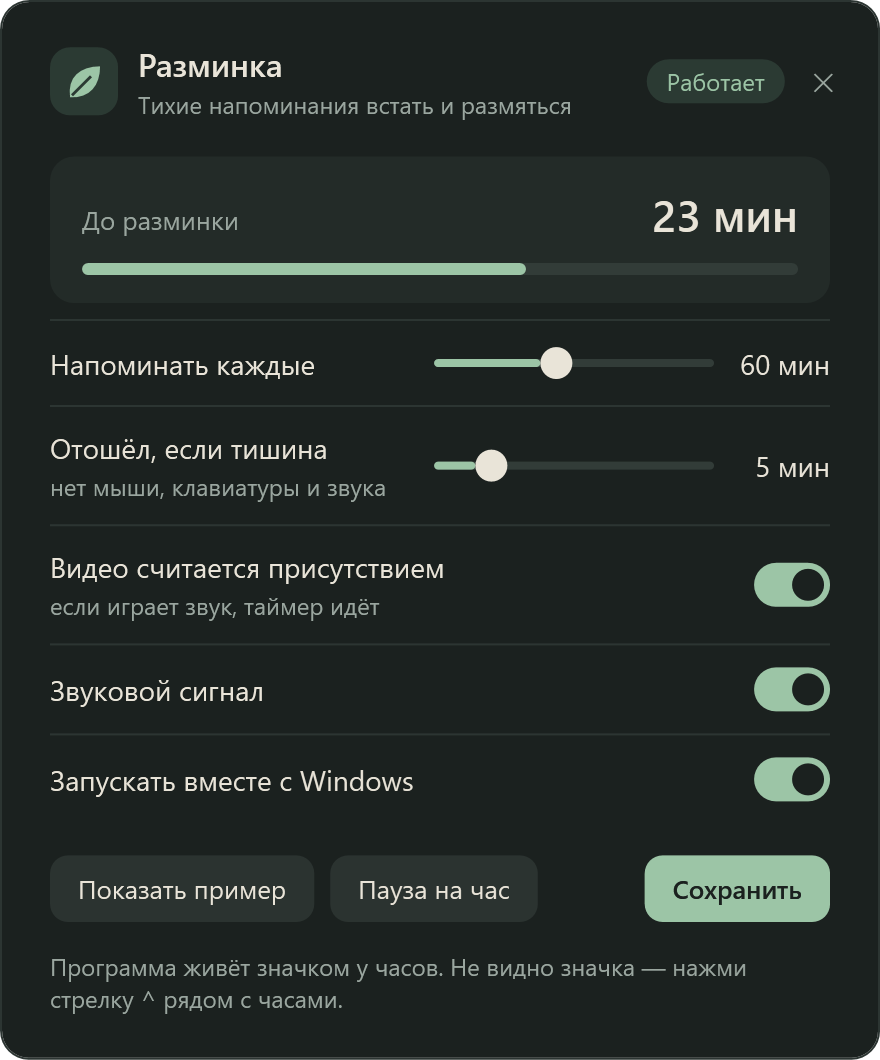
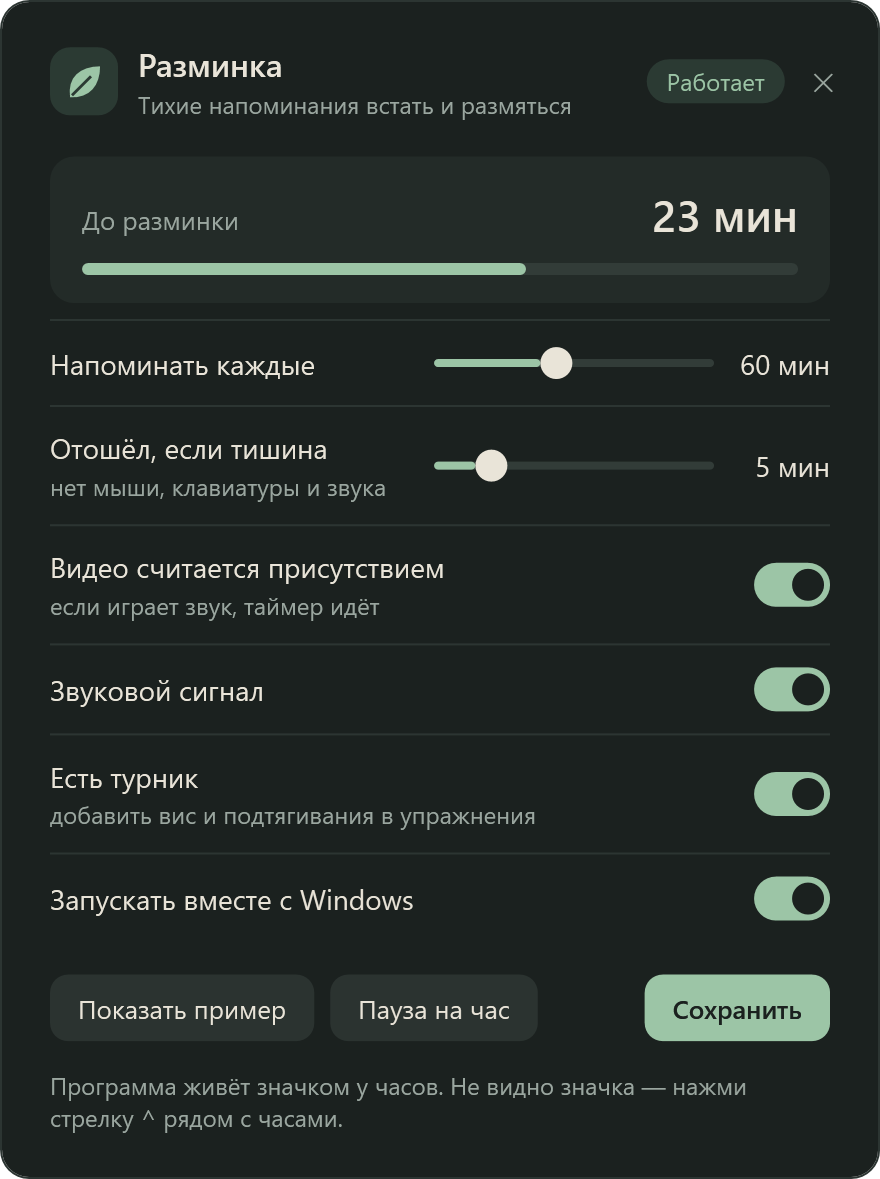
23 evidence-based exercises with a reason line, pull-up bar option, no repeats per round

diff --git a/README.md b/README.md
@@ -11,10 +11,27 @@
 - Живёт значком с листиком у часов. Наведи мышь — увидишь, сколько осталось до разминки. Клик — окно настроек. Правый клик — меню: «Напомнить сейчас», «Пауза на час» (рейтинговая катка, созвон), «Настройки», «Выход».
 - В окне настроек: интервал напоминаний, через сколько минут тишины считать, что ты отошёл, учитывать ли звук от видео, звуковой сигнал и запуск вместе с Windows.
 - Считает только время, когда ты за компьютером. Если на компьютере играет звук (смотришь видео или стрим), это тоже считается: таймер не сбрасывается, даже если мышь лежит без дела. Отсчёт начинается заново, только если несколько минут (по умолчанию 5) нет ни мыши с клавиатурой, ни звука — значит, отошёл.
-- Уведомление само пропадает примерно через 25 секунд. В тексте каждый раз новый совет: присесть, размять шею, посмотреть вдаль и т.п.
+- Уведомление само пропадает примерно через 25 секунд. В нём одно конкретное упражнение и одной строкой — зачем оно. Упражнения идут по кругу в случайном порядке и не повторяются, пока не пройдёшь все.
 - Звук играет отдельно от уведомления, поэтому его слышно, даже когда Windows прячет уведомления во время полноэкранной игры.
 - Работает в фоне без окна консоли. Чистый PowerShell и встроенный в Windows WPF, ничего ставить не нужно.
 - Ведёт лог `razminka.log` рядом со скриптом: когда сбрасывался таймер и когда показывалось напоминание.
+
+## Упражнения и откуда они
+
+23 коротких упражнения на 1–5 минут, без инвентаря: прогулка, приседания, отжимания от стола, подъёмы на носки, ягодичный мостик, растяжка бедра, планка, упражнения для шеи и лопаток, разминка запястий, отдых для глаз. Есть и такое, что можно сделать не вставая, например посреди катки.
+
+Если включить в настройках **«Есть турник»**, добавятся вис, подтягивания, подъём коленей в висе, «активный вис» с лопатками и негативные подтягивания для тех, кто пока не подтягивается. Они попадаются примерно в каждом третьем напоминании.
+
+На чём основан список:
+
+- **Частые короткие перерывы с ходьбой.** В опыте Колумбийского университета (Diaz и др., 2023) 5 минут ходьбы каждые 30 минут сидения снижали скачки сахара после еды на 58% и давление на 4–5 мм рт. ст. Ходьба раз в 60 минут в этом опыте сахар не снижала, так что если есть возможность — ставь интервал 30–45 минут. Опыт маленький (11 человек), выводы предварительные. [Columbia](https://www.cuimc.columbia.edu/node/25711)
+- **«Перекусы» нагрузкой.** Три коротких подъёма по лестнице в день, 3 раза в неделю, за 6 недель улучшили выносливость у малоподвижных людей (Jenkins и др., 2019). [PubMed](https://pubmed.ncbi.nlm.nih.gov/30649897/)
+- **Силовые для шеи и плеч.** В рандомизированных исследованиях с офисными работниками (Andersen и др.) силовые упражнения для шеи и плеч уменьшали боль в шее, а всего 2 минуты в день с резинкой — частоту головных болей. [PubMed](https://pubmed.ncbi.nlm.nih.gov/18461010/), [DOAJ](https://doaj.org/article/970327ba8c484449b144b0fecbb6e0ec)
+- **Силовые хотя бы 2 дня в неделю.** ВОЗ (2020) советует взрослым силовые на все крупные группы мышц минимум 2 дня в неделю и меньше сидеть. [Рекомендации ВОЗ](https://pmc.ncbi.nlm.nih.gov/articles/PMC7719906/)
+- **Подъёмы пяток сидя.** Работа камбаловидной мышцы сидя улучшала обмен сахара (Hamilton и др., 2022). В исследовании технику ставили по датчикам, так что дома эффект может быть меньше. [PMC](https://pmc.ncbi.nlm.nih.gov/articles/PMC9404652)
+- **Отжимания и хват.** У мужчин, которые могли отжаться больше 40 раз, за 10 лет было намного меньше болезней сердца (Yang и др., 2019); слабый хват связан с более ранней смертностью. Это наблюдения, а не доказательство причины. [Harvard](https://hsph.harvard.edu/news/push-up-capacity-cardiovascular-disease-events-men)
+
+Это не медицинская программа. Если что-то болит или есть травмы — посоветуйся с врачом. Текст упражнений лежит в начале [`razminka.ps1`](razminka.ps1) в списке `$exercises`, его легко поменять под себя.
 
 ## Нагрузка и приватность
 
@@ -86,7 +103,7 @@ The interface and notifications are in Russian.
 - Lives as a leaf icon next to the clock. Hover to see how long until the next break. Click to open settings. Right-click for a menu: remind now, pause for an hour (ranked match, a call), settings, exit.
 - Settings: reminder interval, how many quiet minutes mean you walked away, whether video sound counts as presence, the reminder sound, and starting with Windows.
 - Only time you actually spend at the computer counts. Sound playing on the PC (watching a video or a stream) counts as being there too, so the timer keeps going even when the mouse sits still. The timer resets only after a few minutes (5 by default) with neither input nor sound — you walked away.
-- The notification disappears on its own after about 25 seconds and shows a random stretching tip (edit `$tips` in `razminka.ps1` to change them).
+- The notification disappears on its own after about 25 seconds. It suggests one specific exercise with a one-line reason why. 23 short exercises (walking, squats, push-ups, calf raises, glute bridge, hip-flexor stretch, plank, neck and shoulder-blade work, wrists, eye rest) rotate in random order without repeats. Turn on "Есть турник" (pull-up bar) in settings to add dead hangs, pull-ups, hanging knee raises, scapular hangs and negatives. The list is `$exercises` in `razminka.ps1`; the research behind it is listed in the Russian section above (Diaz 2023, Jenkins 2019, Andersen et al., WHO 2020, Hamilton 2022, Yang 2019). Not medical advice.
 - The sound plays separately from the notification, so you hear it even when Windows hides notifications during fullscreen games.
 - Runs in the background with no console window. Pure PowerShell plus the WPF built into Windows, nothing to install.
 - Writes a log to `razminka.log` next to the script: timer resets and reminders shown.
